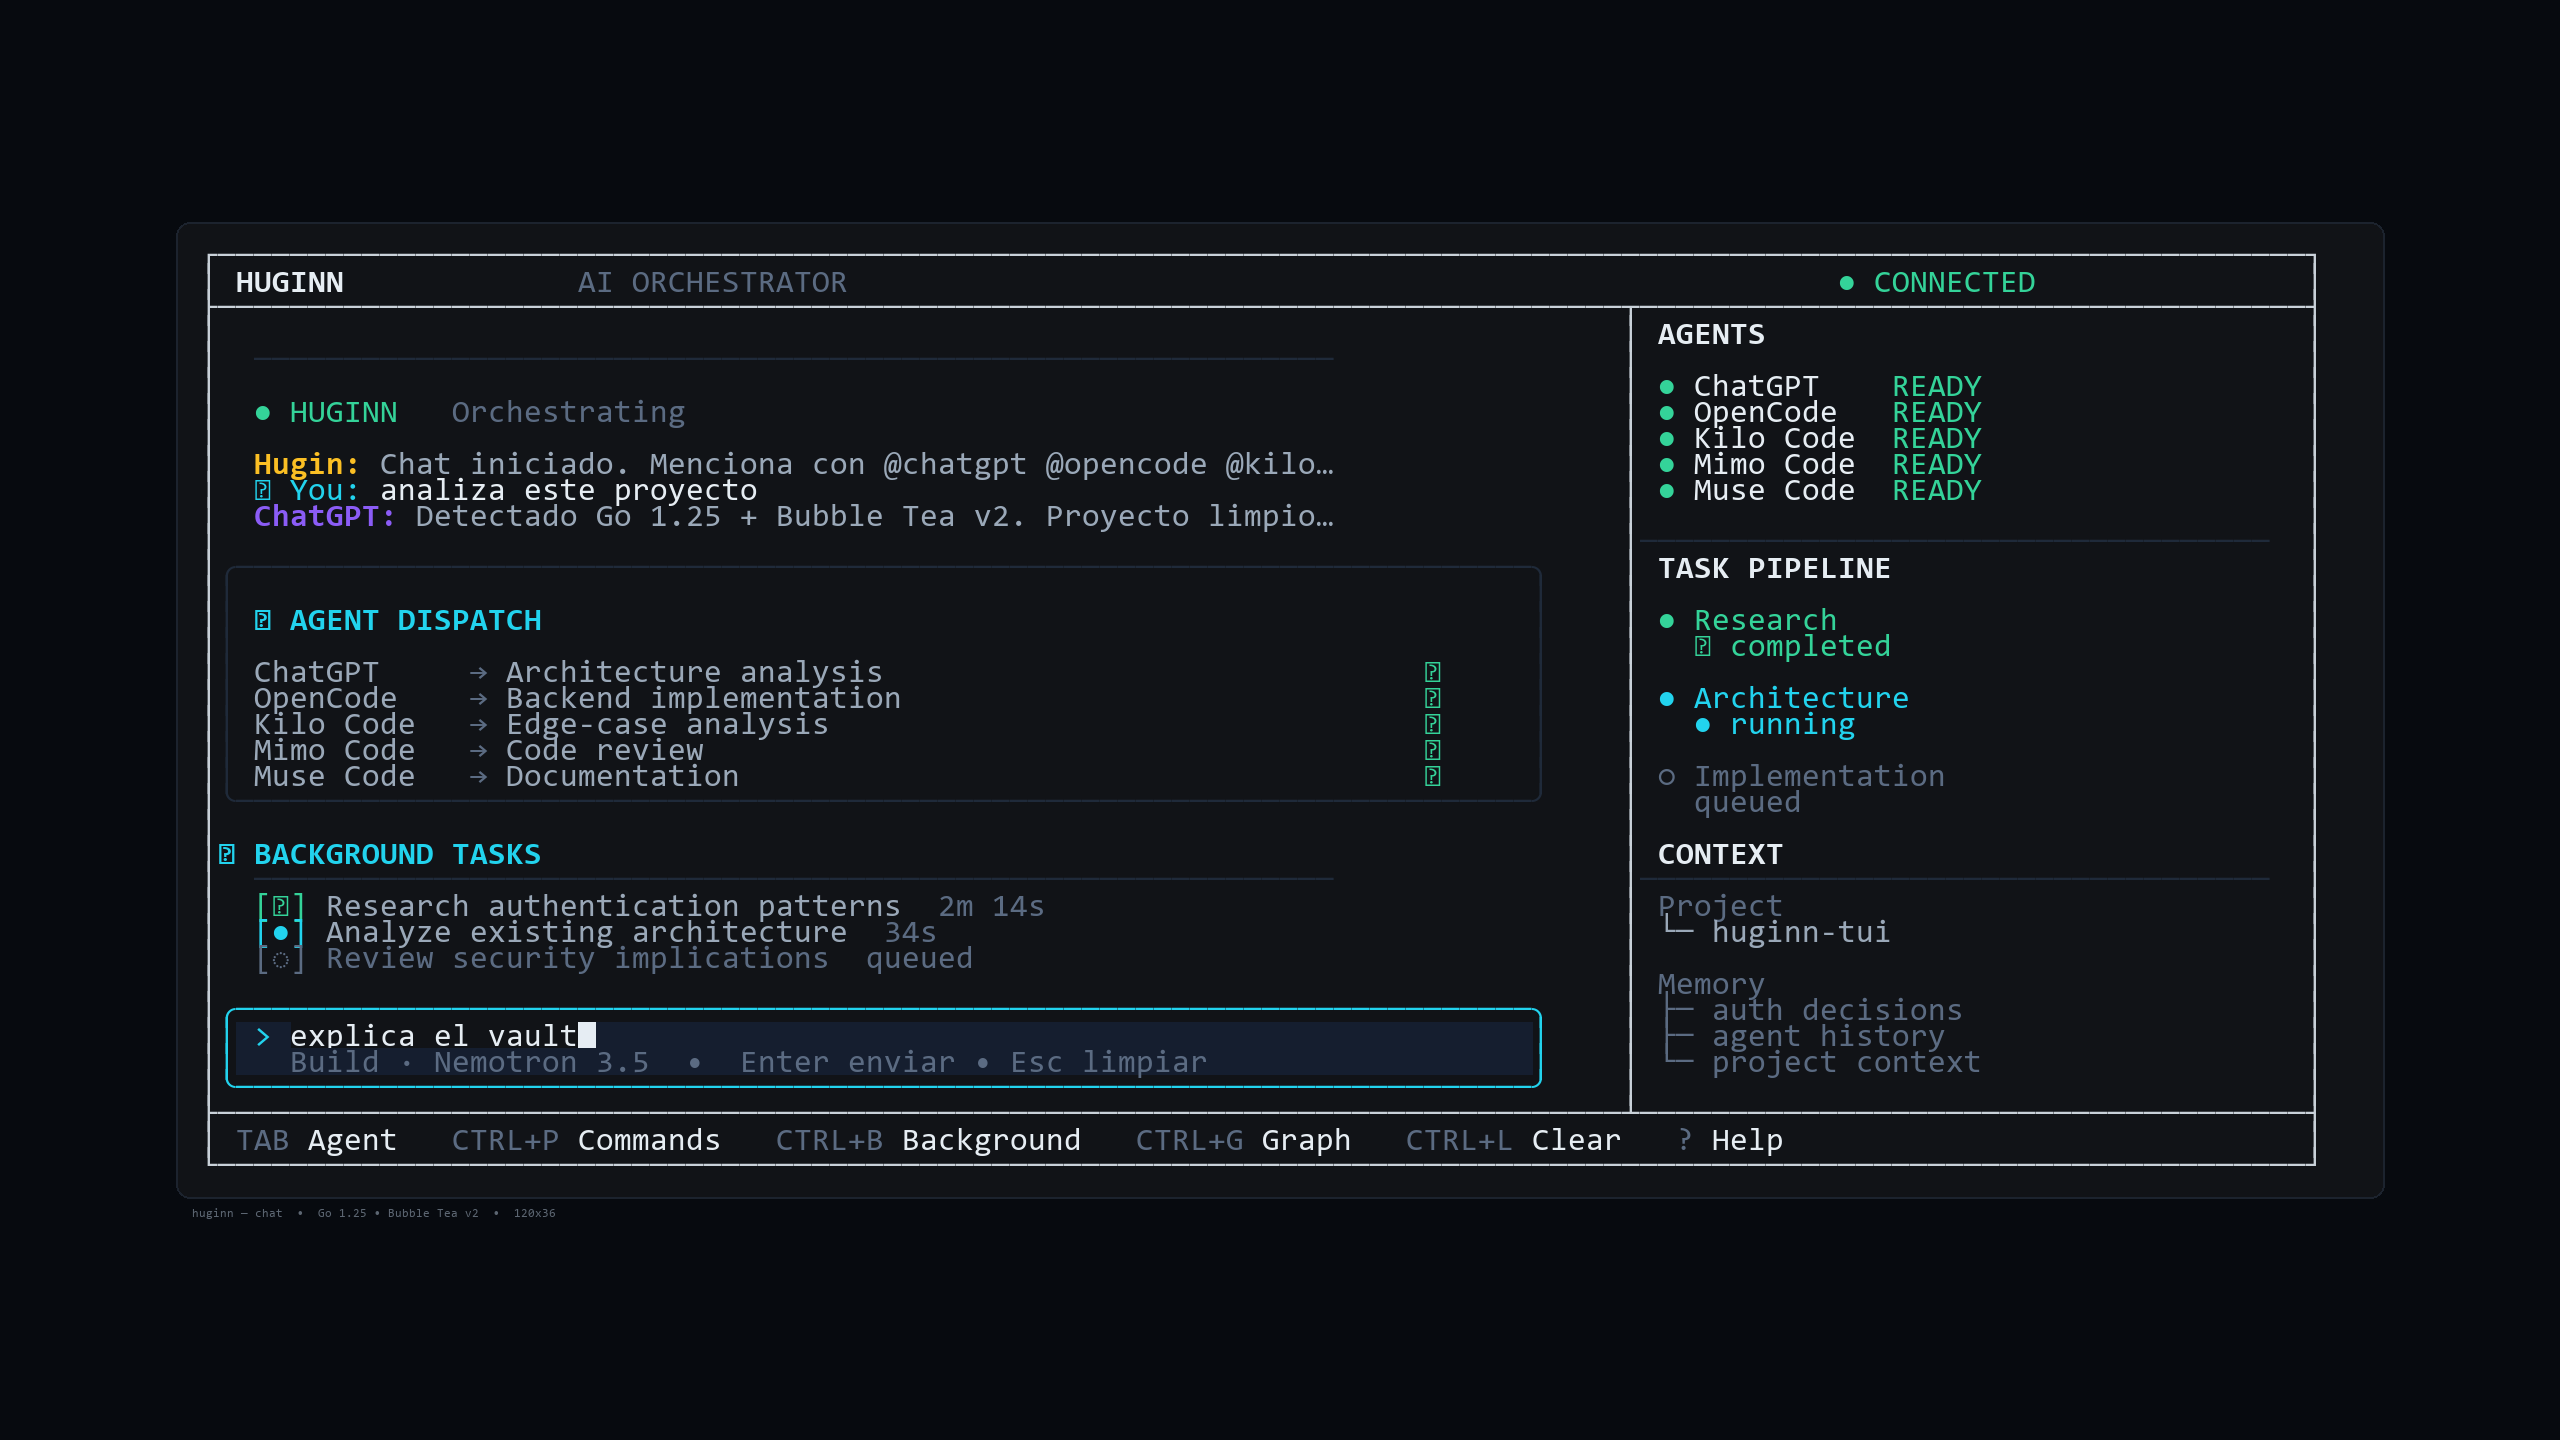
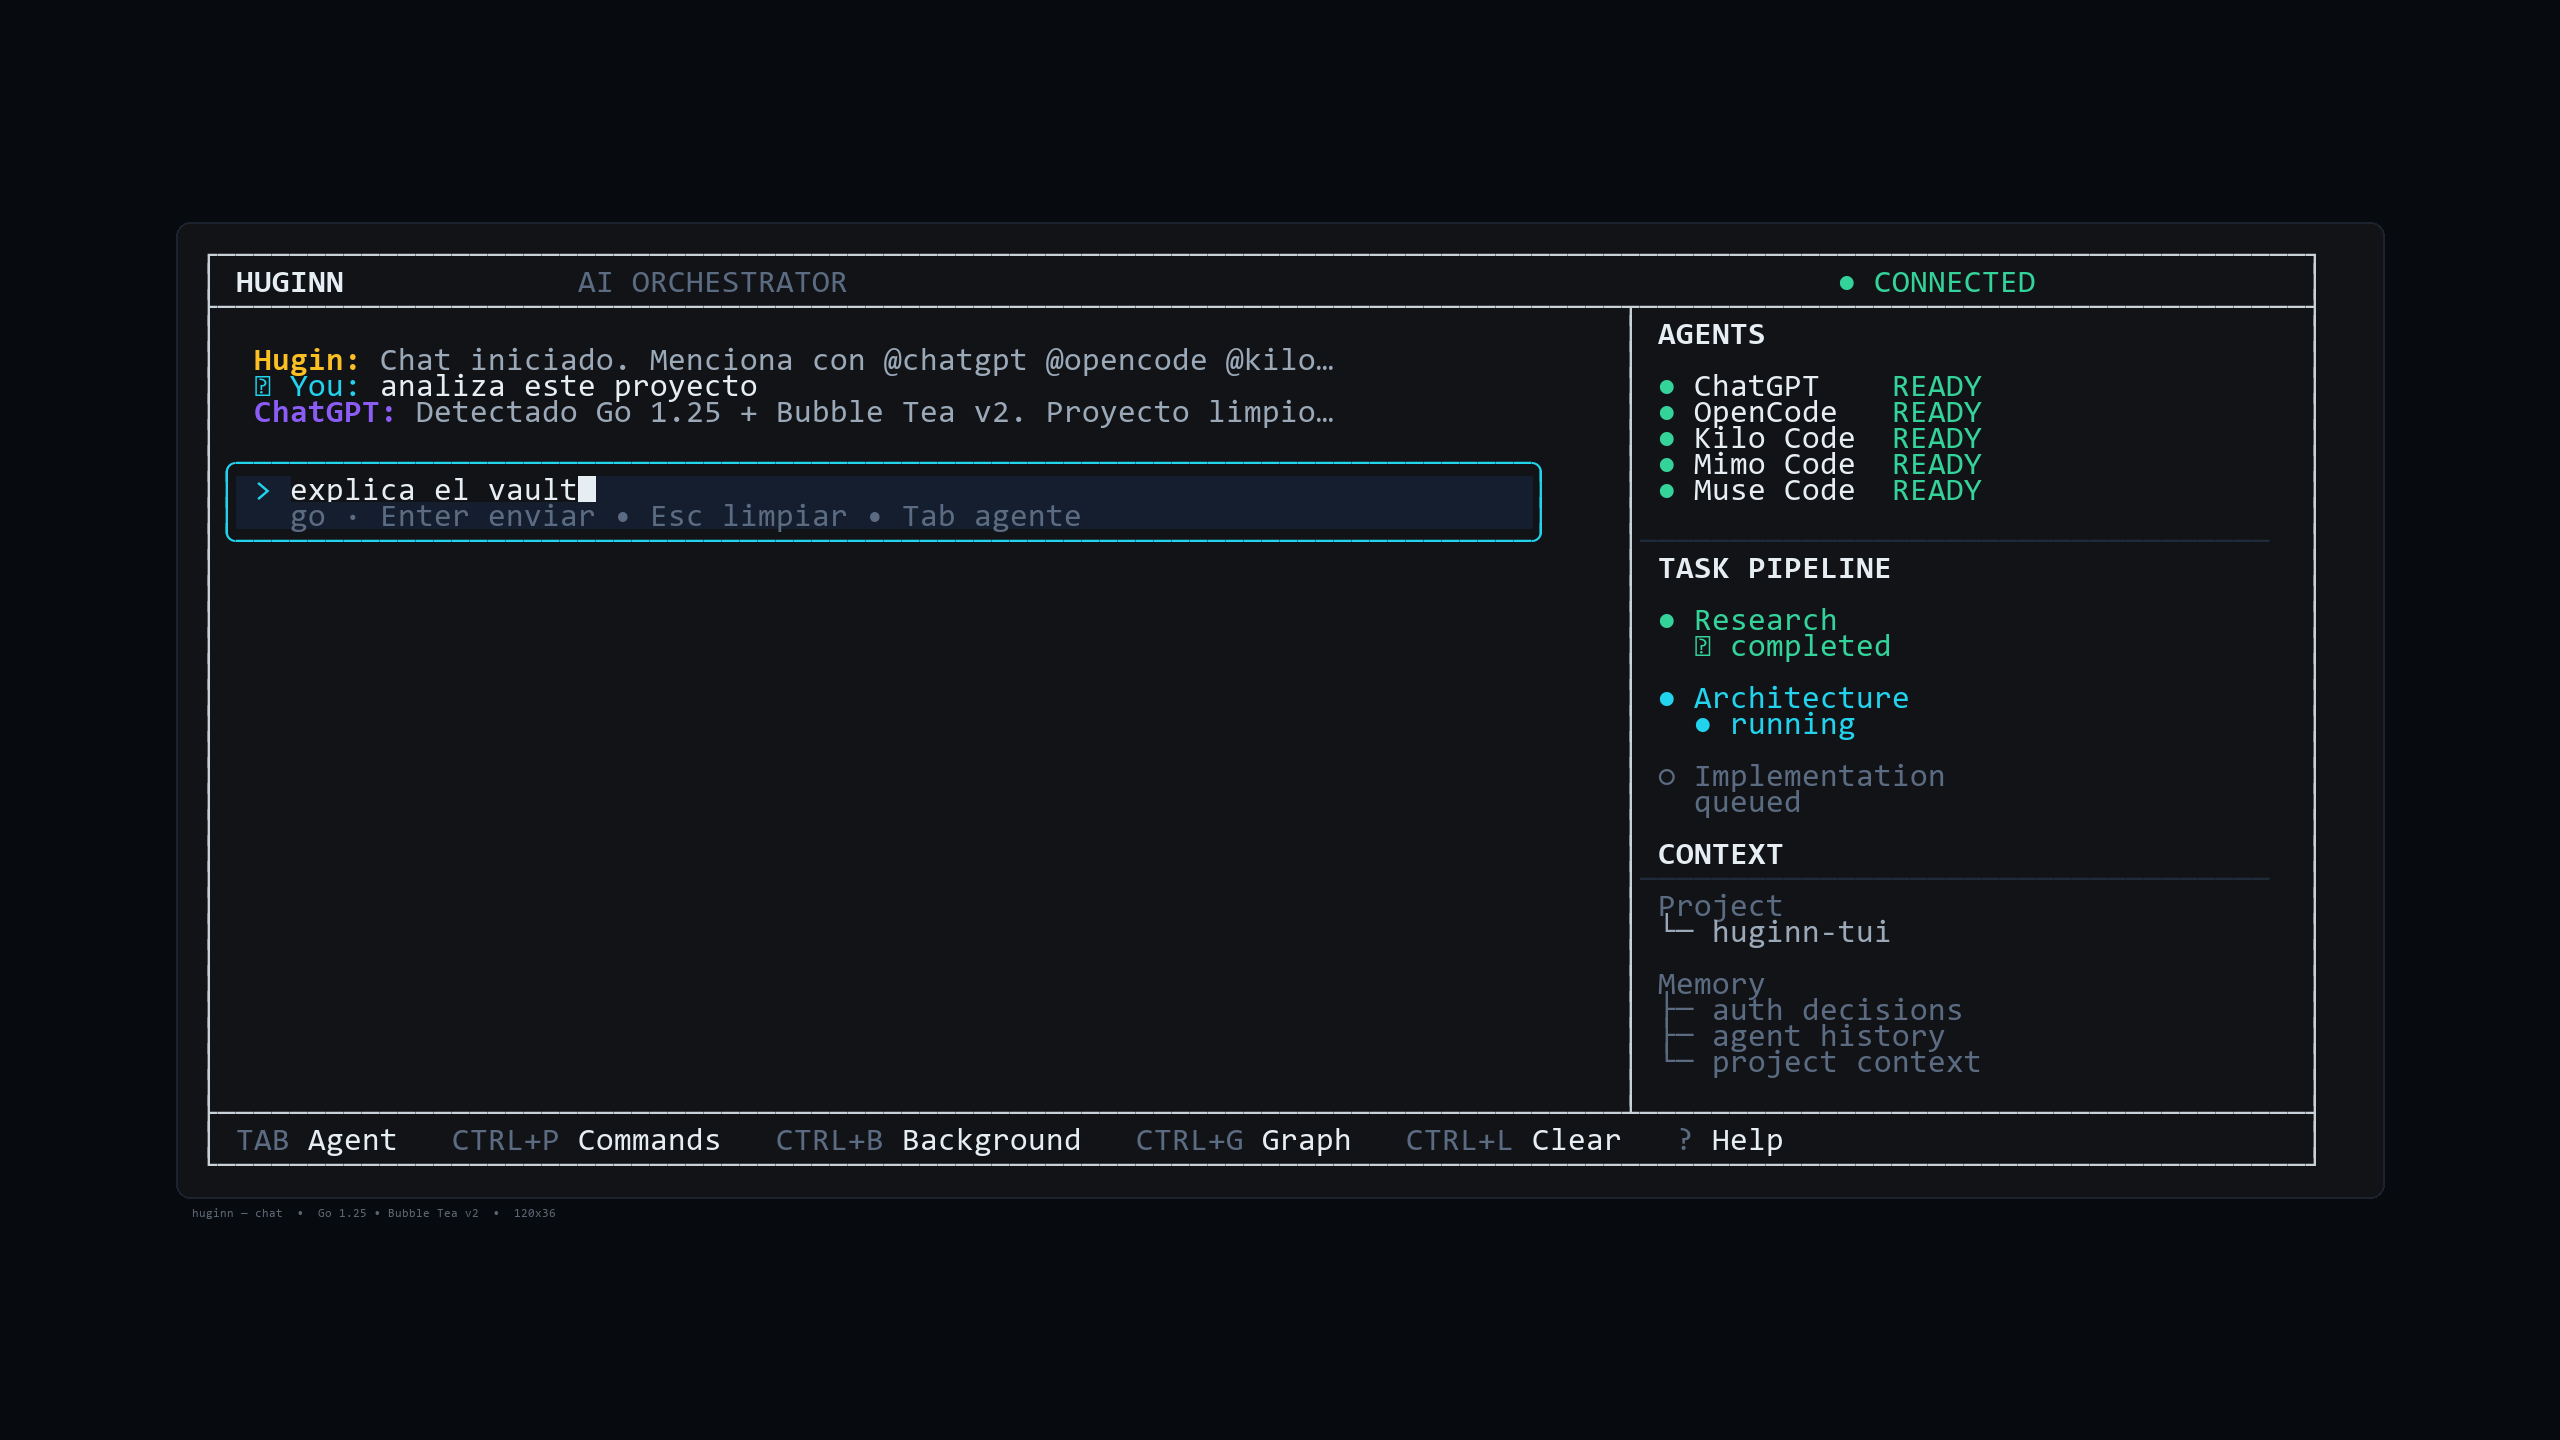
ui: hibrido opencode hierarchy + premium glass — chat single-column limpio
- viewChat left sin dispatch/background duplicados, solo history + input sticky
- respeta Tab/agente y @ opcional, mas limpio como opencode/muse

diff --git a/main.go b/main.go
@@ -2840,22 +2840,17 @@ func viewChat(m model) string {
         inputLine = lipgloss.NewStyle().Foreground(colWhite).Render(before) + caret + lipgloss.NewStyle().Foreground(colWhite).Render(after)
     }
     _ = lipgloss.NewStyle().Foreground(colAccent).Render("> ") + inputLine
-    leftLines := []string{
-        "",
-        lipgloss.NewStyle().Bold(true).Foreground(colWhite).Render("  HUGINN"),
-        lipgloss.NewStyle().Foreground(colBorder).Render("  "+strings.Repeat("─", leftW-18)),
-        "",
-        lipgloss.NewStyle().Foreground(colAccent).Render("  > ") + lipgloss.NewStyle().Foreground(colWhite).Render(prompt),
-        "",
-        lipgloss.NewStyle().Foreground(colBorder).Render("  "+strings.Repeat("─", leftW-18)),
-        "",
-        lipgloss.NewStyle().Foreground(colSuccess).Render("  ● HUGINN") + lipgloss.NewStyle().Foreground(colMuted).Render("   Orchestrating"),
-        "",
+    // híbrido opencode: left limpio solo chat history + input (sin dispatch duplicado)
+    agents := []string{"ChatGPT", "OpenCode", "Kilo Code", "Mimo Code", "Muse Code"}
+    leftLines := []string{""}
+    if lipgloss.Width(prompt) > 0 && len(m.chatHistory) <= 1 {
+        leftLines = append(leftLines, lipgloss.NewStyle().Foreground(colMuted).Render("  › ")+lipgloss.NewStyle().Foreground(colText2).Italic(true).Render(truncate(prompt, leftW-8)))
+        leftLines = append(leftLines, "")
     }
     if len(m.chatHistory) > 0 {
         hist := m.chatHistory
-        if len(hist) > 5 {
-            hist = hist[len(hist)-5:]
+        if len(hist) > 6 {
+            hist = hist[len(hist)-6:]
         }
         for _, msg := range hist {
             if msg.IsUser {
@@ -2889,59 +2884,7 @@ func viewChat(m model) string {
         }
         leftLines = append(leftLines, "")
     }
-    dispatchRows := []string{
-        "",
-        lipgloss.NewStyle().Bold(true).Foreground(colAccent).Render("◆ AGENT DISPATCH"),
-        "",
-    }
-    agents := []string{"ChatGPT", "OpenCode", "Kilo Code", "Mimo Code", "Muse Code"}
-    agentTasks := map[string]string{
-        "ChatGPT": "Architecture analysis",
-        "OpenCode": "Backend implementation",
-        "Kilo Code": "Edge-case analysis",
-        "Mimo Code": "Code review",
-        "Muse Code": "Documentation",
-    }
-    for _, an := range agents {
-        st, _ := agentStatus(an)
-        icon := "◌"
-        if st=="READY" {
-            icon = "✓"
-        }
-        if st=="WORKING" {
-            icon = "●"
-        }
-        var iconCol color.Color = colMuted
-        if icon=="✓" {
-            iconCol = colSuccess
-        }
-        if icon=="●" {
-            iconCol = colAccent
-        }
-        namePadded := pad(an, 11)
-        taskPadded := pad(agentTasks[an], leftW-28)
-        if lipgloss.Width(taskPadded) > leftW-28 {
-            taskPadded = truncate(agentTasks[an], leftW-28)
-        }
-        line2 := lipgloss.NewStyle().Foreground(colText2).Render(namePadded) + lipgloss.NewStyle().Foreground(colMuted).Render(" → ") + lipgloss.NewStyle().Foreground(colText2).Render(taskPadded) + " " + lipgloss.NewStyle().Foreground(iconCol).Render(icon)
-        dispatchRows = append(dispatchRows, line2)
-    }
-    dispatchBoxContent := strings.Join(dispatchRows, "\n")
-    dispatchBox := lipgloss.NewStyle().BorderStyle(lipgloss.RoundedBorder()).BorderForeground(colBorder).Padding(0, 1).Width(leftW-4).Render(dispatchBoxContent)
-    for _, line := range strings.Split(dispatchBox, "\n") {
-        leftLines = append(leftLines, line)
-    }
-    leftLines = append(leftLines, "")
-    leftLines = append(leftLines, lipgloss.NewStyle().Bold(true).Foreground(colAccent).Render("▣ BACKGROUND TASKS"))
-    leftLines = append(leftLines, lipgloss.NewStyle().Foreground(colBorder).Render("  "+strings.Repeat("─", leftW-18)))
-    bgTasks := []string{
-        lipgloss.NewStyle().Foreground(colSuccess).Render("  [✓]") + lipgloss.NewStyle().Foreground(colText2).Render(" Research authentication patterns") + lipgloss.NewStyle().Foreground(colMuted).Render("  2m 14s"),
-        lipgloss.NewStyle().Foreground(colAccent).Render("  [●]") + lipgloss.NewStyle().Foreground(colText2).Render(" Analyze existing architecture") + lipgloss.NewStyle().Foreground(colMuted).Render("  34s"),
-        lipgloss.NewStyle().Foreground(colMuted).Render("  [◌]") + lipgloss.NewStyle().Foreground(colMuted).Render(" Review security implications") + lipgloss.NewStyle().Foreground(colMuted).Render("  queued"),
-    }
-    leftLines = append(leftLines, bgTasks...)
-    leftLines = append(leftLines, "")
-    inputBoxContent := lipgloss.NewStyle().Foreground(colAccent).Render("> ") + inputLine + "\n" + lipgloss.NewStyle().Foreground(colMuted).Render("  Build · Nemotron 3.5  •  Enter enviar • Esc limpiar")
+    inputBoxContent := lipgloss.NewStyle().Foreground(colAccent).Render("> ") + inputLine + "\n" + lipgloss.NewStyle().Foreground(colMuted).Render("  "+m.pkgManager+" · Enter enviar • Esc limpiar • Tab agente")
     inputBox := lipgloss.NewStyle().BorderStyle(lipgloss.RoundedBorder()).BorderForeground(colAccent).Background(colPanel2).Padding(0, 1).Width(leftW-4).Render(inputBoxContent)
     for _, line := range strings.Split(inputBox, "\n") {
         leftLines = append(leftLines, line)
